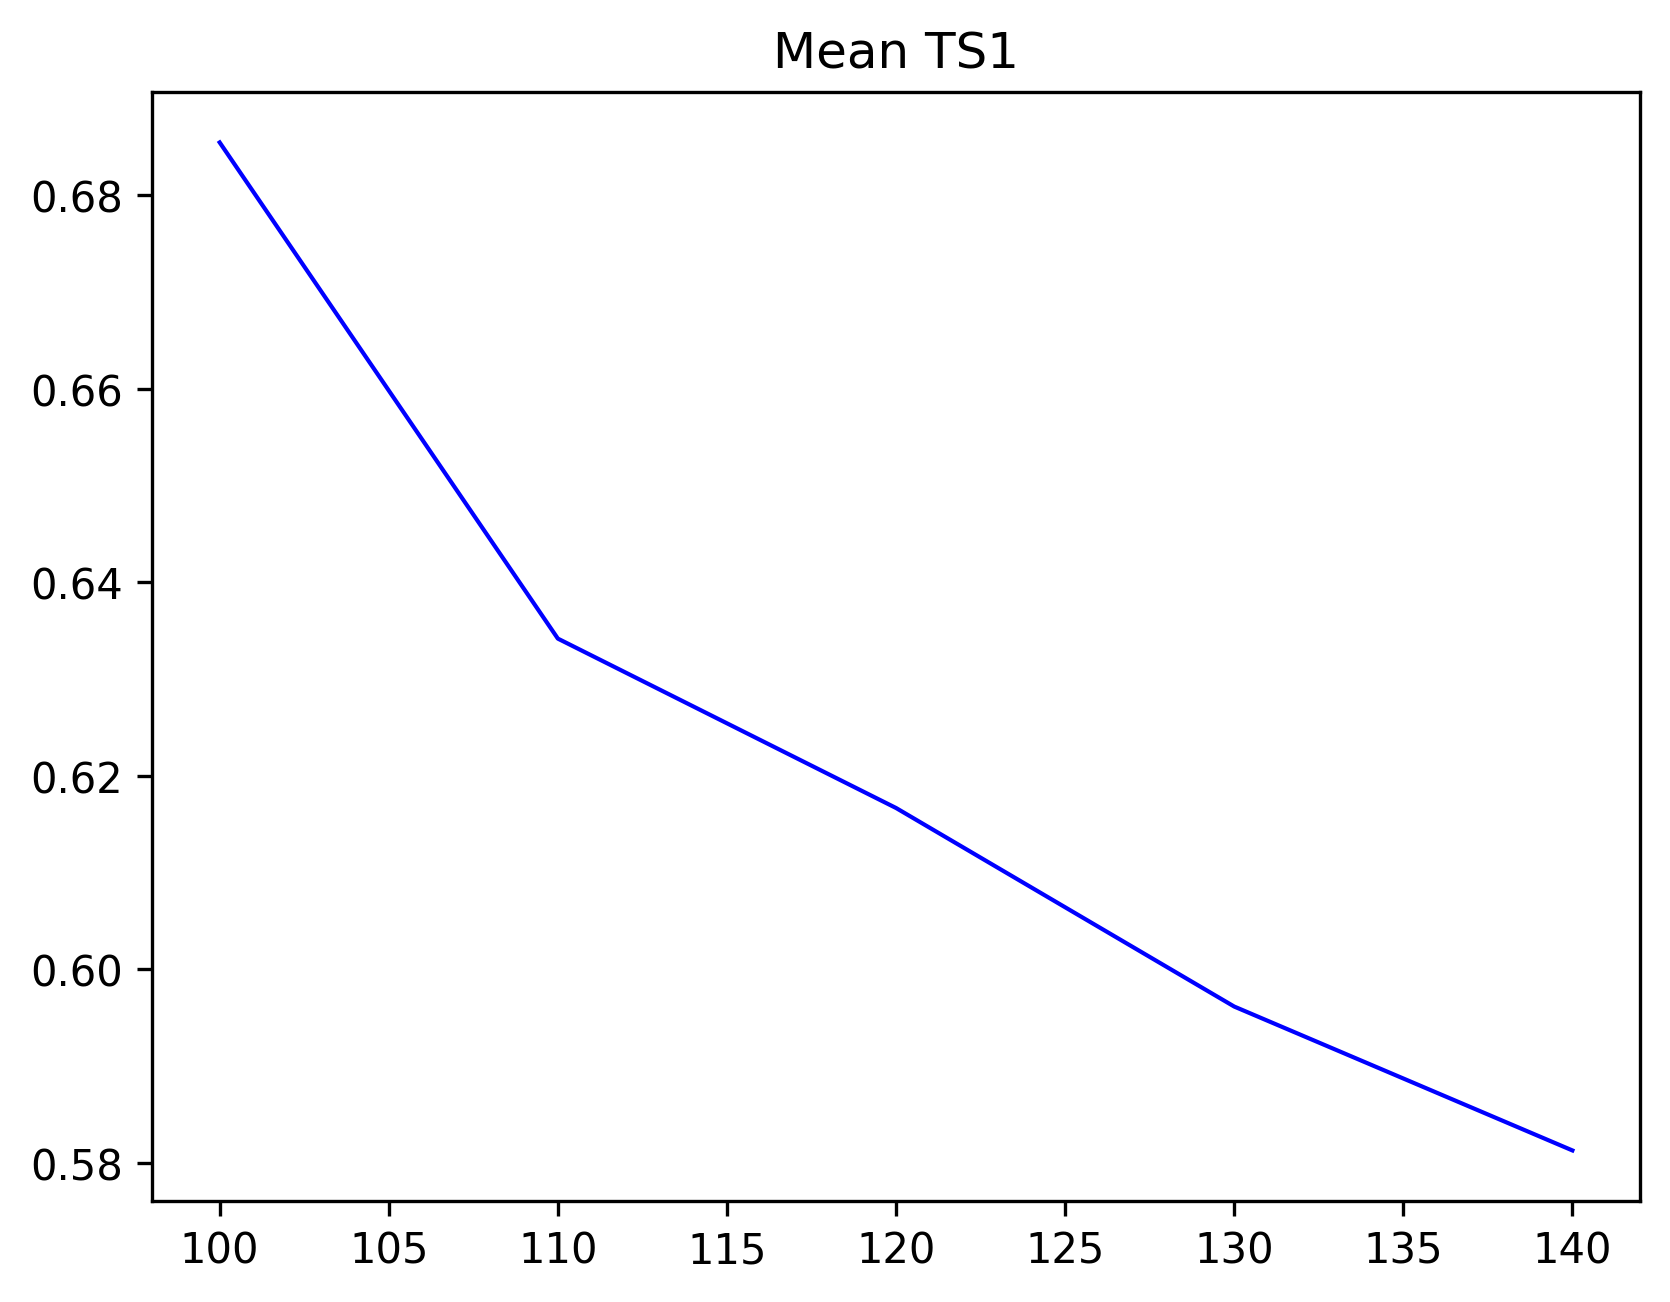
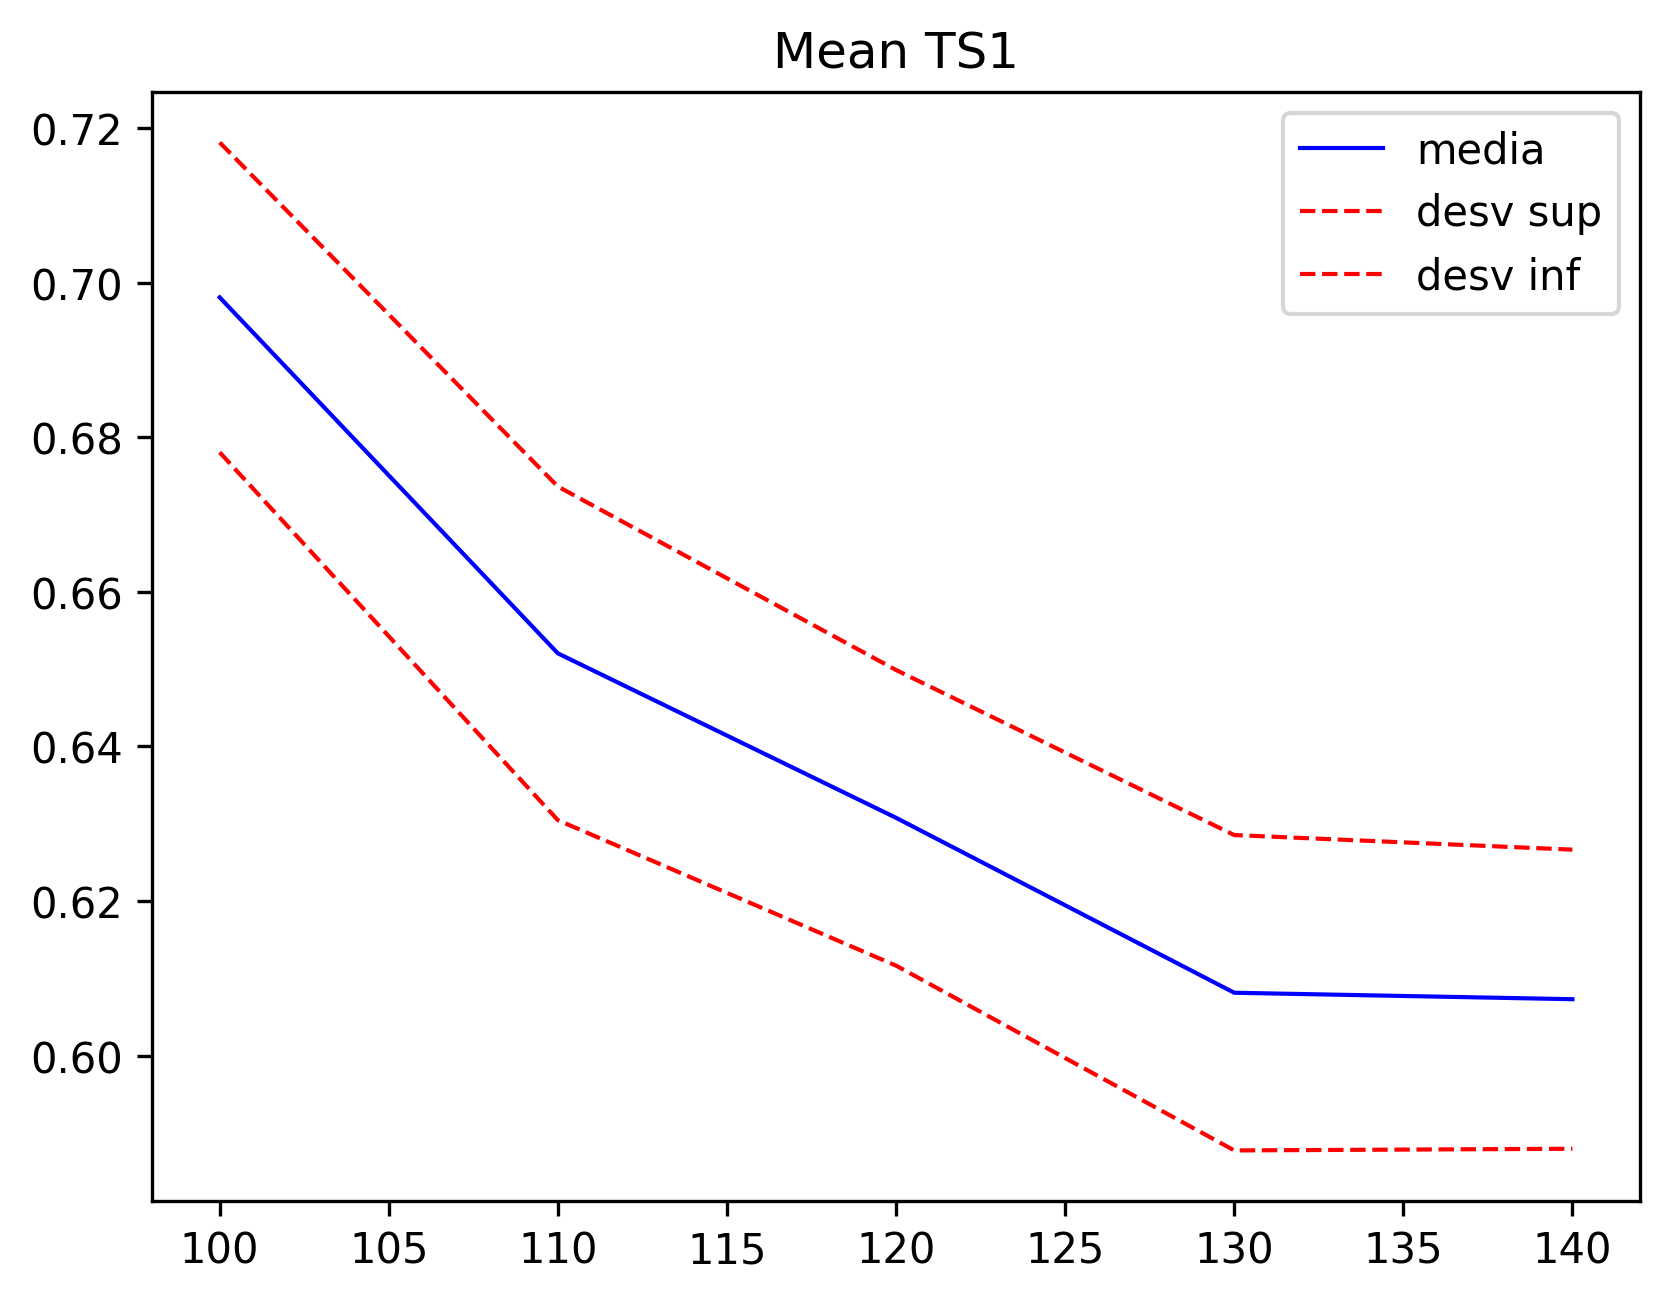
Fix: RD done (i hope)

diff --git a/RS/main.py b/RS/main.py
@@ -5,6 +5,8 @@ from lectura_datos import read_serie
 from busqueda_aleatoria import randomSearch
 import matplotlib.pyplot as plt
 from linear_regression import estimate_all_points, estimate_all_coef
+import numpy as np
+
 
 def mean(serie):
     means = []
@@ -22,7 +24,27 @@ def mean(serie):
     
     return means
 
+def std(serie,means):
+    stds = []
+    for TS in range(len(serie[0])):
+        std_s=[]
+        for i in range(len(serie)):
+            for j in range(len(serie[0][TS])):
+                diff=serie[i][TS][j]['rmse']-means[TS][j]
+                diff**=2
+                if i == 0:
+                    std_s.append(diff)
+                else:
+                    std_s[j] += diff
 
+        for i in range(len(std_s)):
+            std_s[i]=pow(std_s[i],2)
+            std_s[i] /= len(serie)
+            std_s[i]=np.sqrt(std_s[i])
+
+        stds.append(std_s)
+    
+    return stds
 
 def main():
     start = int(input("Introduzca el numero de individuos iniciales: "))
@@ -85,10 +107,26 @@ def main():
 #Graficas
 
     mean_series=mean(mean_bests)
+    std_series=std(mean_bests,mean_series)
+
+
+    std_mean_neg=[]
+    std_mean_pos=[]
+    for TS in range(len (series_times)):
+        std_neg=[]
+        std_pos=[]
+        for i in range(len(mean_series[TS])):
+            std_pos.append(mean_series[TS][i]+std_series[TS][i])
+            std_neg.append(mean_series[TS][i]-std_series[TS][i])
+        std_mean_neg.append(std_neg)
+        std_mean_pos.append(std_pos)
 
     for TS in range(len(series_times)):
         plt.title(f"Mean {files[TS][3:]}")
-        plt.plot(series_iters[TS], mean_series[TS], color='blue', linewidth=1, label="medias")
+        plt.plot(series_iters[TS], mean_series[TS], color='blue', linewidth=1, label="media")
+        plt.plot(series_iters[TS],std_mean_neg[TS], color='red', linewidth=1,linestyle='--', label="desv sup")
+        plt.plot(series_iters[TS],std_mean_pos[TS], color='red', linewidth=1,linestyle='--', label="desv inf")
+        plt.legend()
         plt.savefig(f"{files[TS][3:]}_mean.png", dpi=300, bbox_inches='tight')
         plt.close()
 
